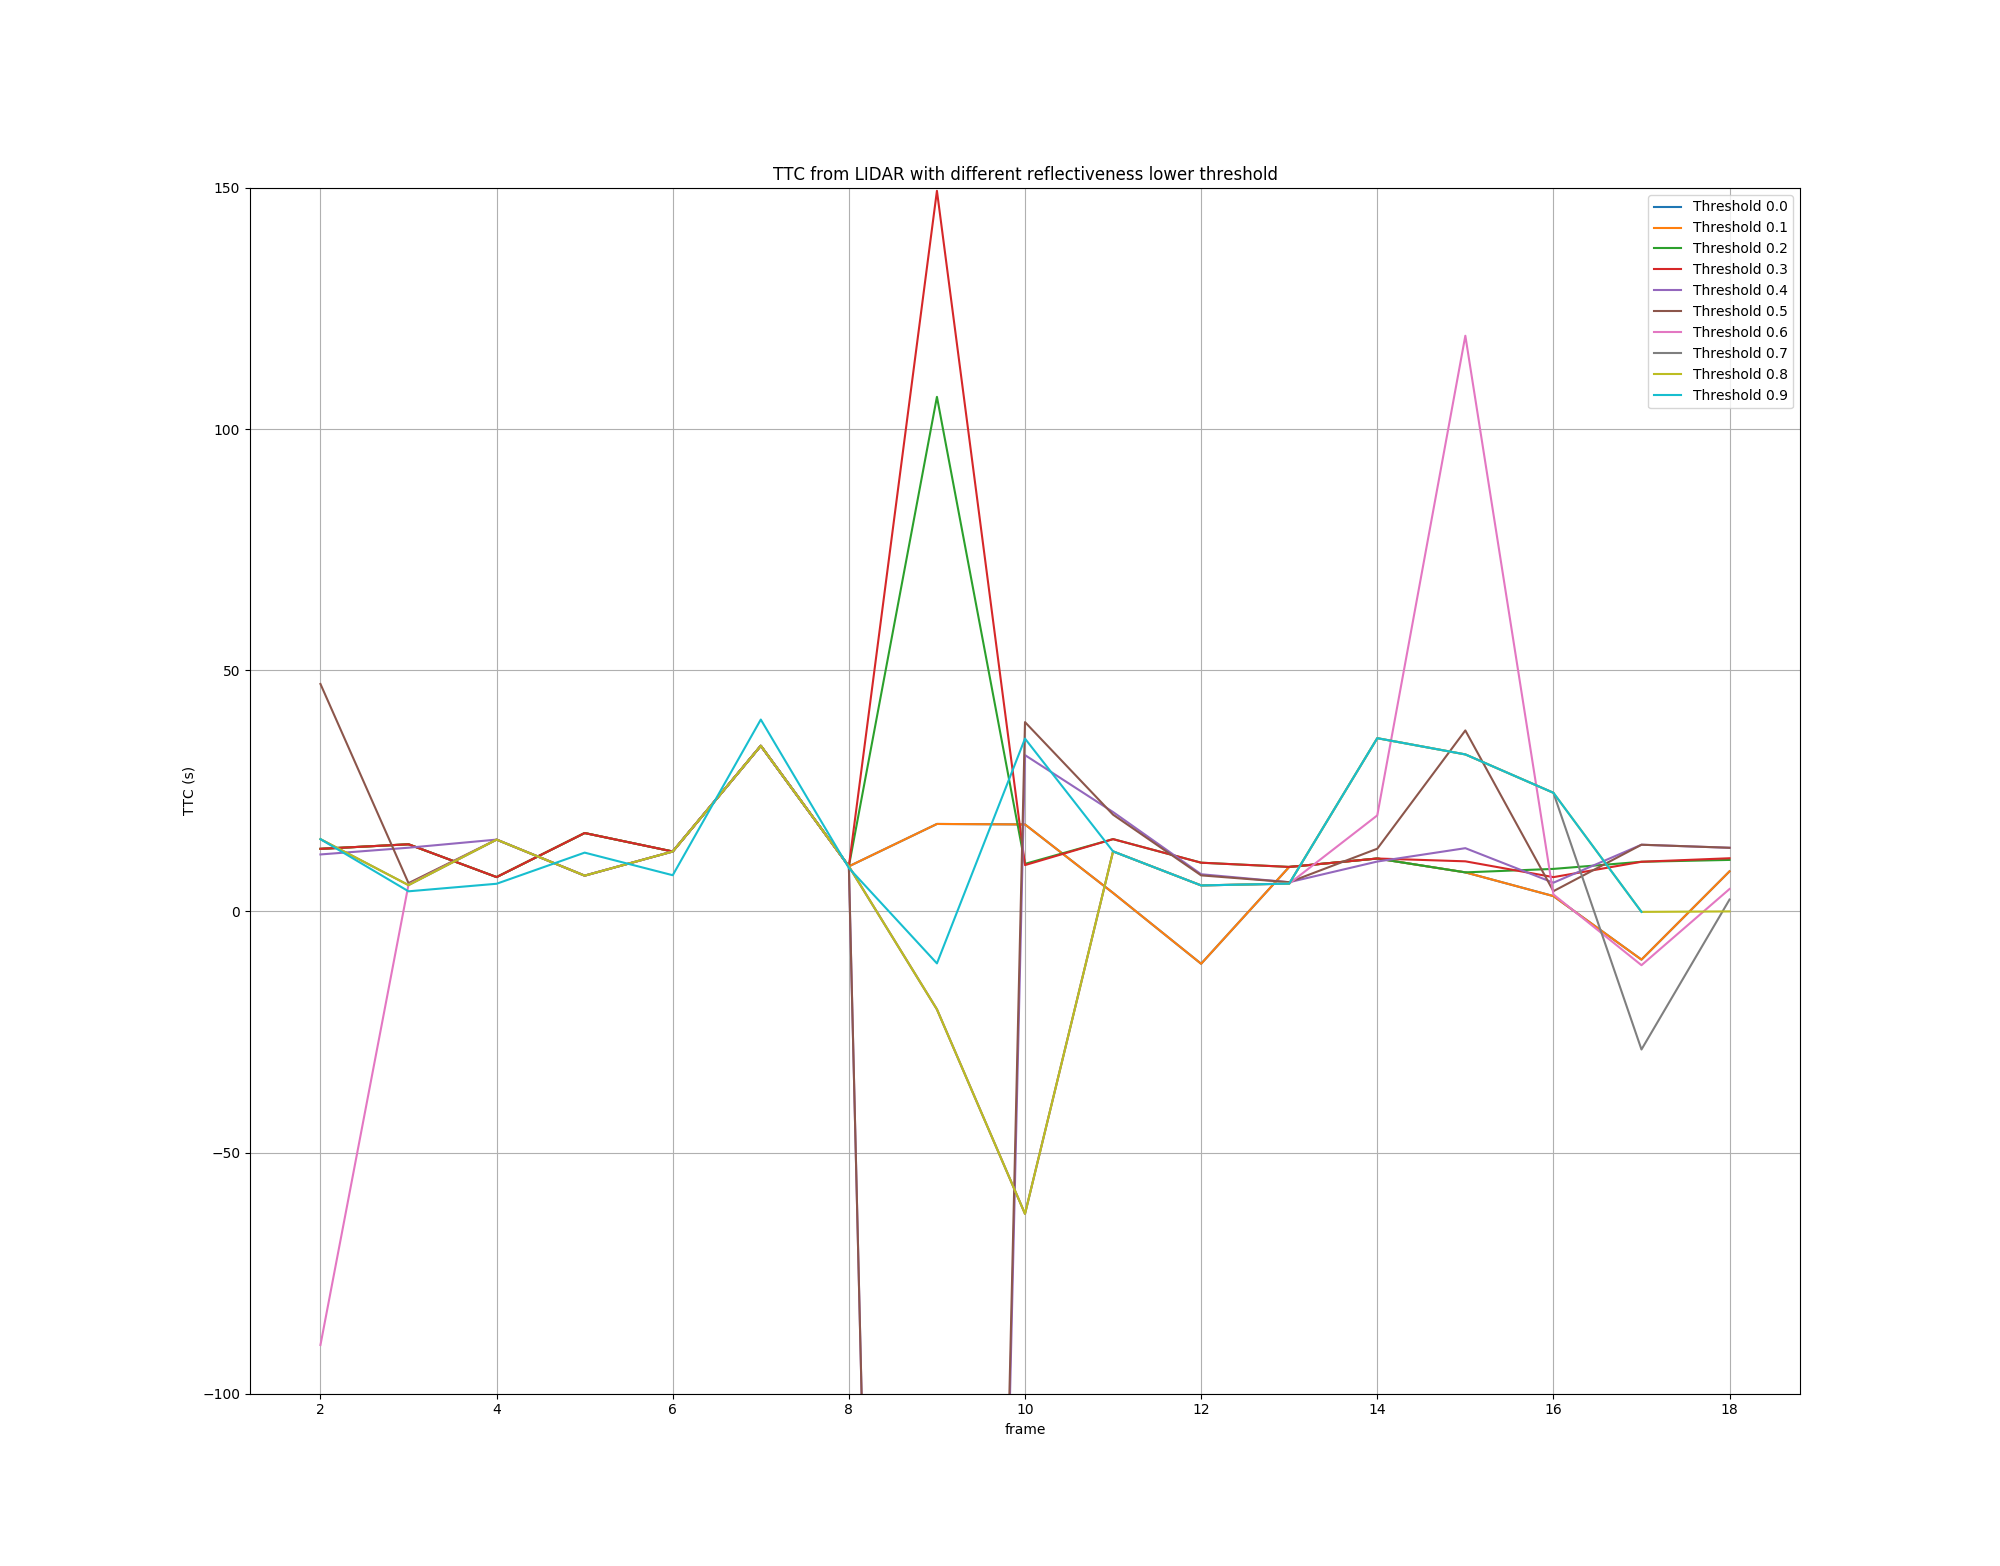
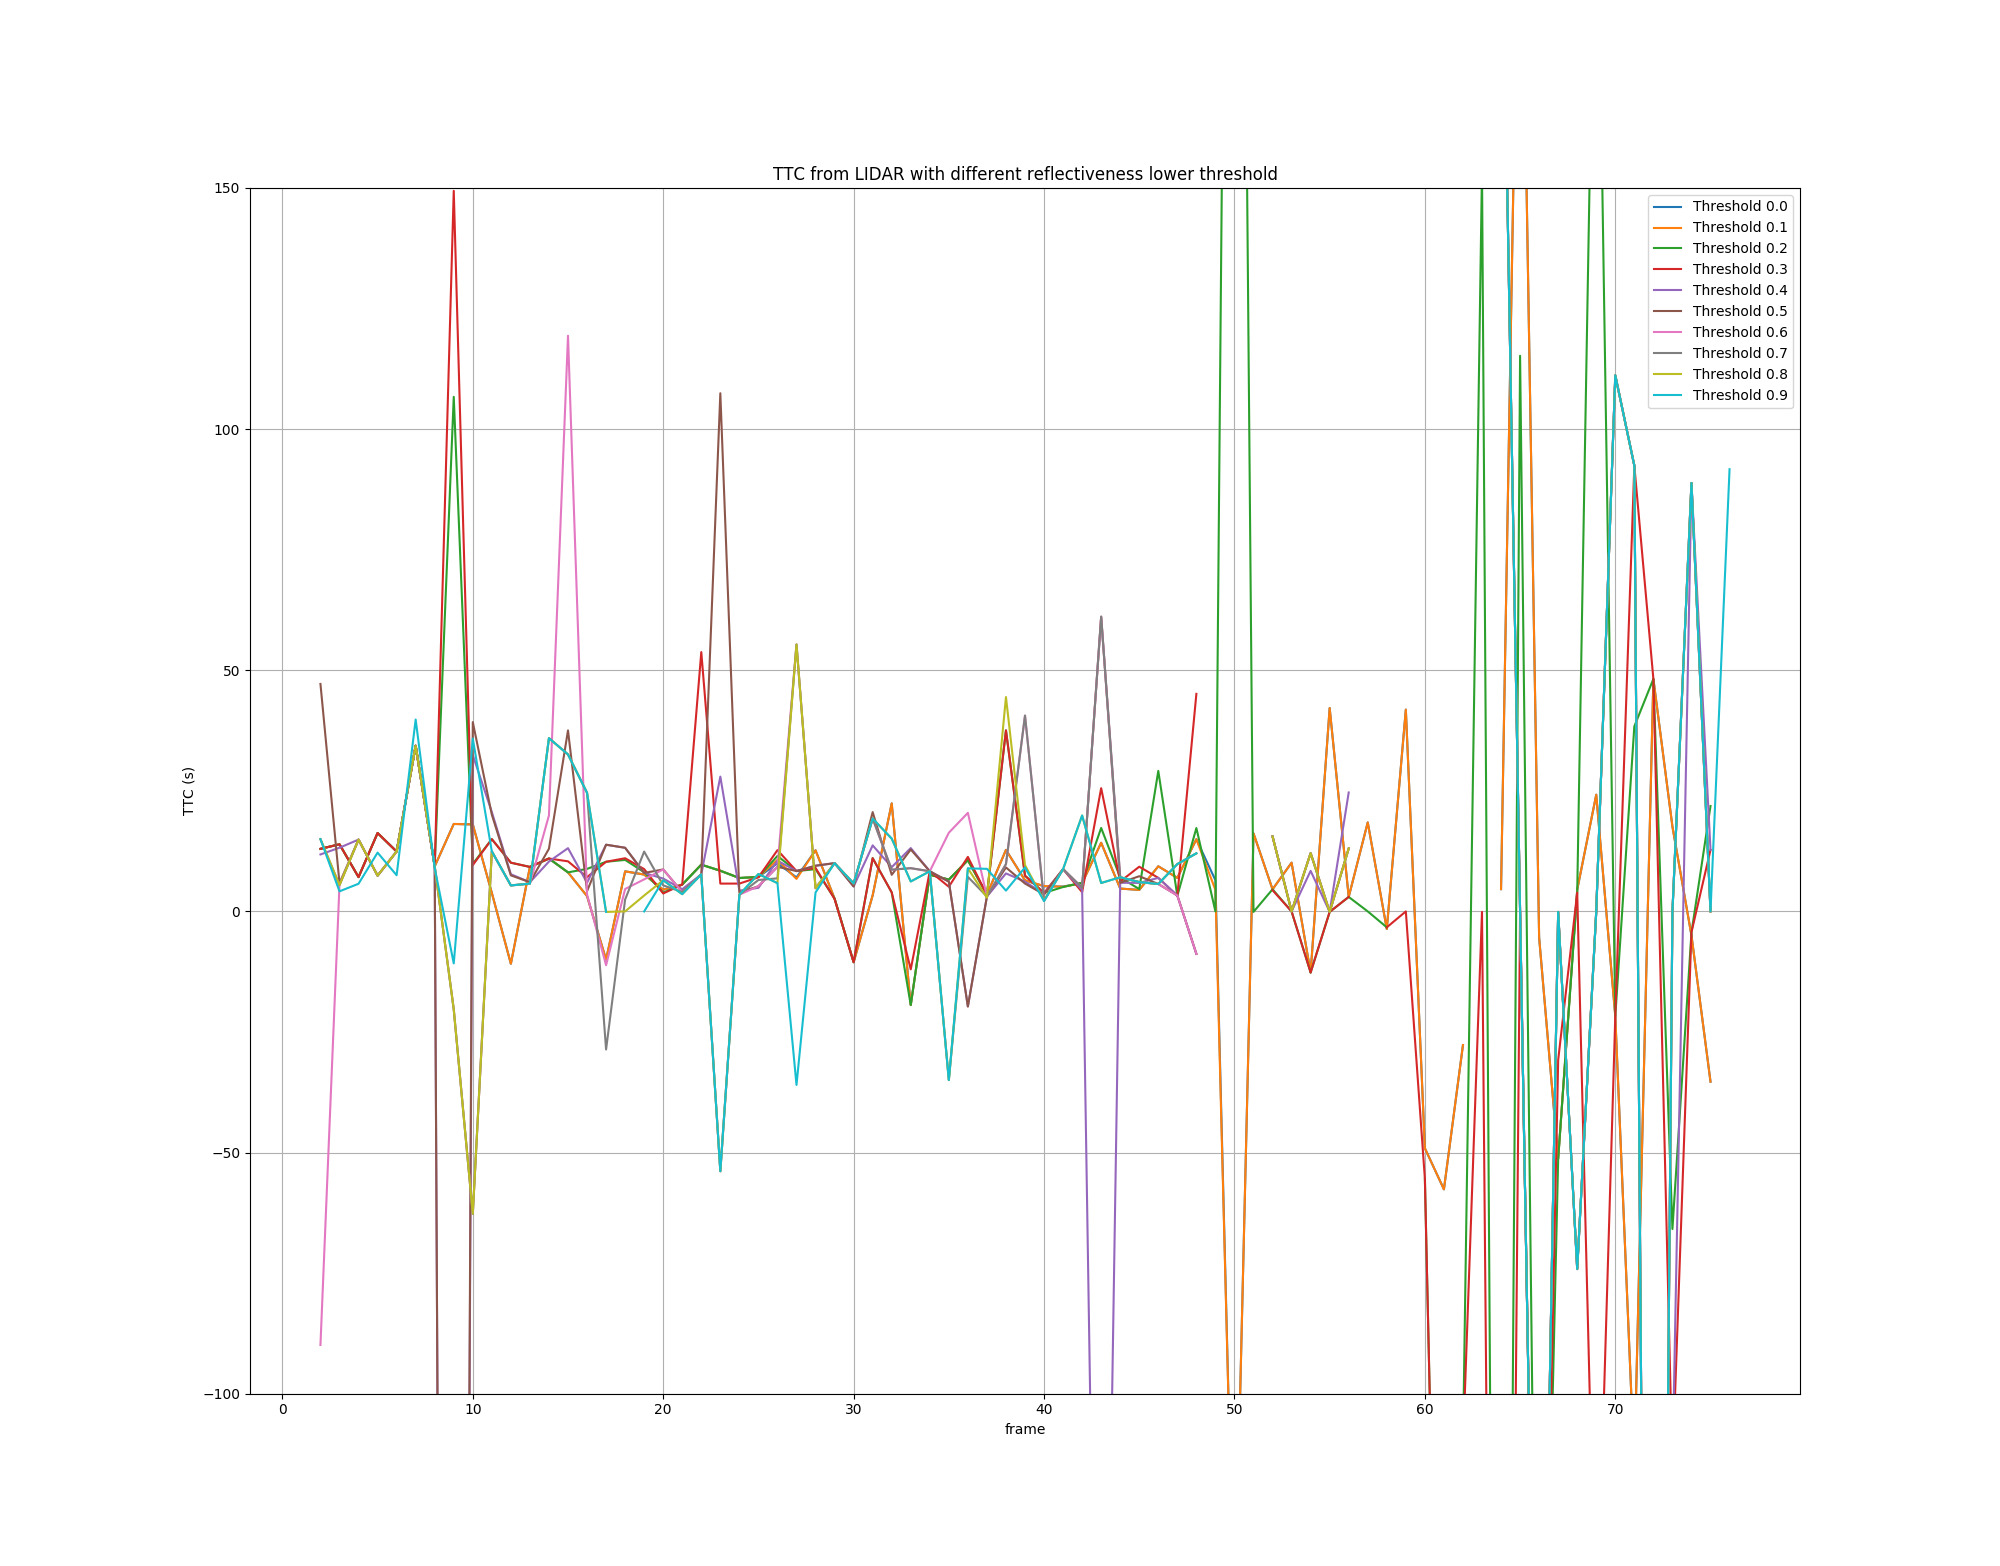
for all data

diff --git a/runner.py b/runner.py
@@ -26,7 +26,7 @@ WORKING_DIR = "build"
 
 FLOATING_PATTERN_REGEX = "([0-9]*.[0-9]+)"
 
-NUMBER_OF_EXPECTED_RESULTS = 17
+NUMBER_OF_EXPECTED_RESULTS = 74
 
 
 def run_command(detector_type="ORB",
@@ -76,7 +76,7 @@ def task_5_process(threshold):
         if match_ext:
             # print(match_ext.group(1))
             ttc.append(float(match_ext.group(1)))
-    assert (len(ttc) == NUMBER_OF_EXPECTED_RESULTS), "len(ttc): {} \nttc: {}".format(len(ttc), ttc)
+    # assert (len(ttc) == NUMBER_OF_EXPECTED_RESULTS), "len(ttc): {} \nttc: {}".format(len(ttc), ttc)
     return ttc, threshold
 
 def plot_ttc_lidar(file):
@@ -132,8 +132,8 @@ def tes_reg_exp():
 
 if __name__ == "__main__":
     # tes_reg_exp()
-    plot_ttc_lidar("results/lidar_ttcs_vs_ths.p")
-    exit(0)
+    # plot_ttc_lidar("results/lidar_ttcs_vs_ths.p")
+    # exit(0)
     parser = argparse.ArgumentParser(description='A runner to run the executable inside' +
                                      'the build directory with different parameters')
     parser.add_argument('--tasks',type=int, choices=[5, 6], required=True, nargs='+',

diff --git a/src/FinalProject_Camera.cpp b/src/FinalProject_Camera.cpp
@@ -94,7 +94,7 @@ int main(int argc, const char *argv[])
     string imgPrefix = "KITTI/2011_09_26/image_02/data/000000"; // left camera, color
     string imgFileType = ".png";
     int imgStartIndex = 0; // first file index to load (assumes Lidar and camera names have identical naming convention)
-    int imgEndIndex = 18;  // last file index to load
+    int imgEndIndex = 77;  // last file index to load
     int imgStepWidth = 1;
     int imgFillWidth = 4; // no. of digits which make up the file index (e.g. img-0001.png)
 
